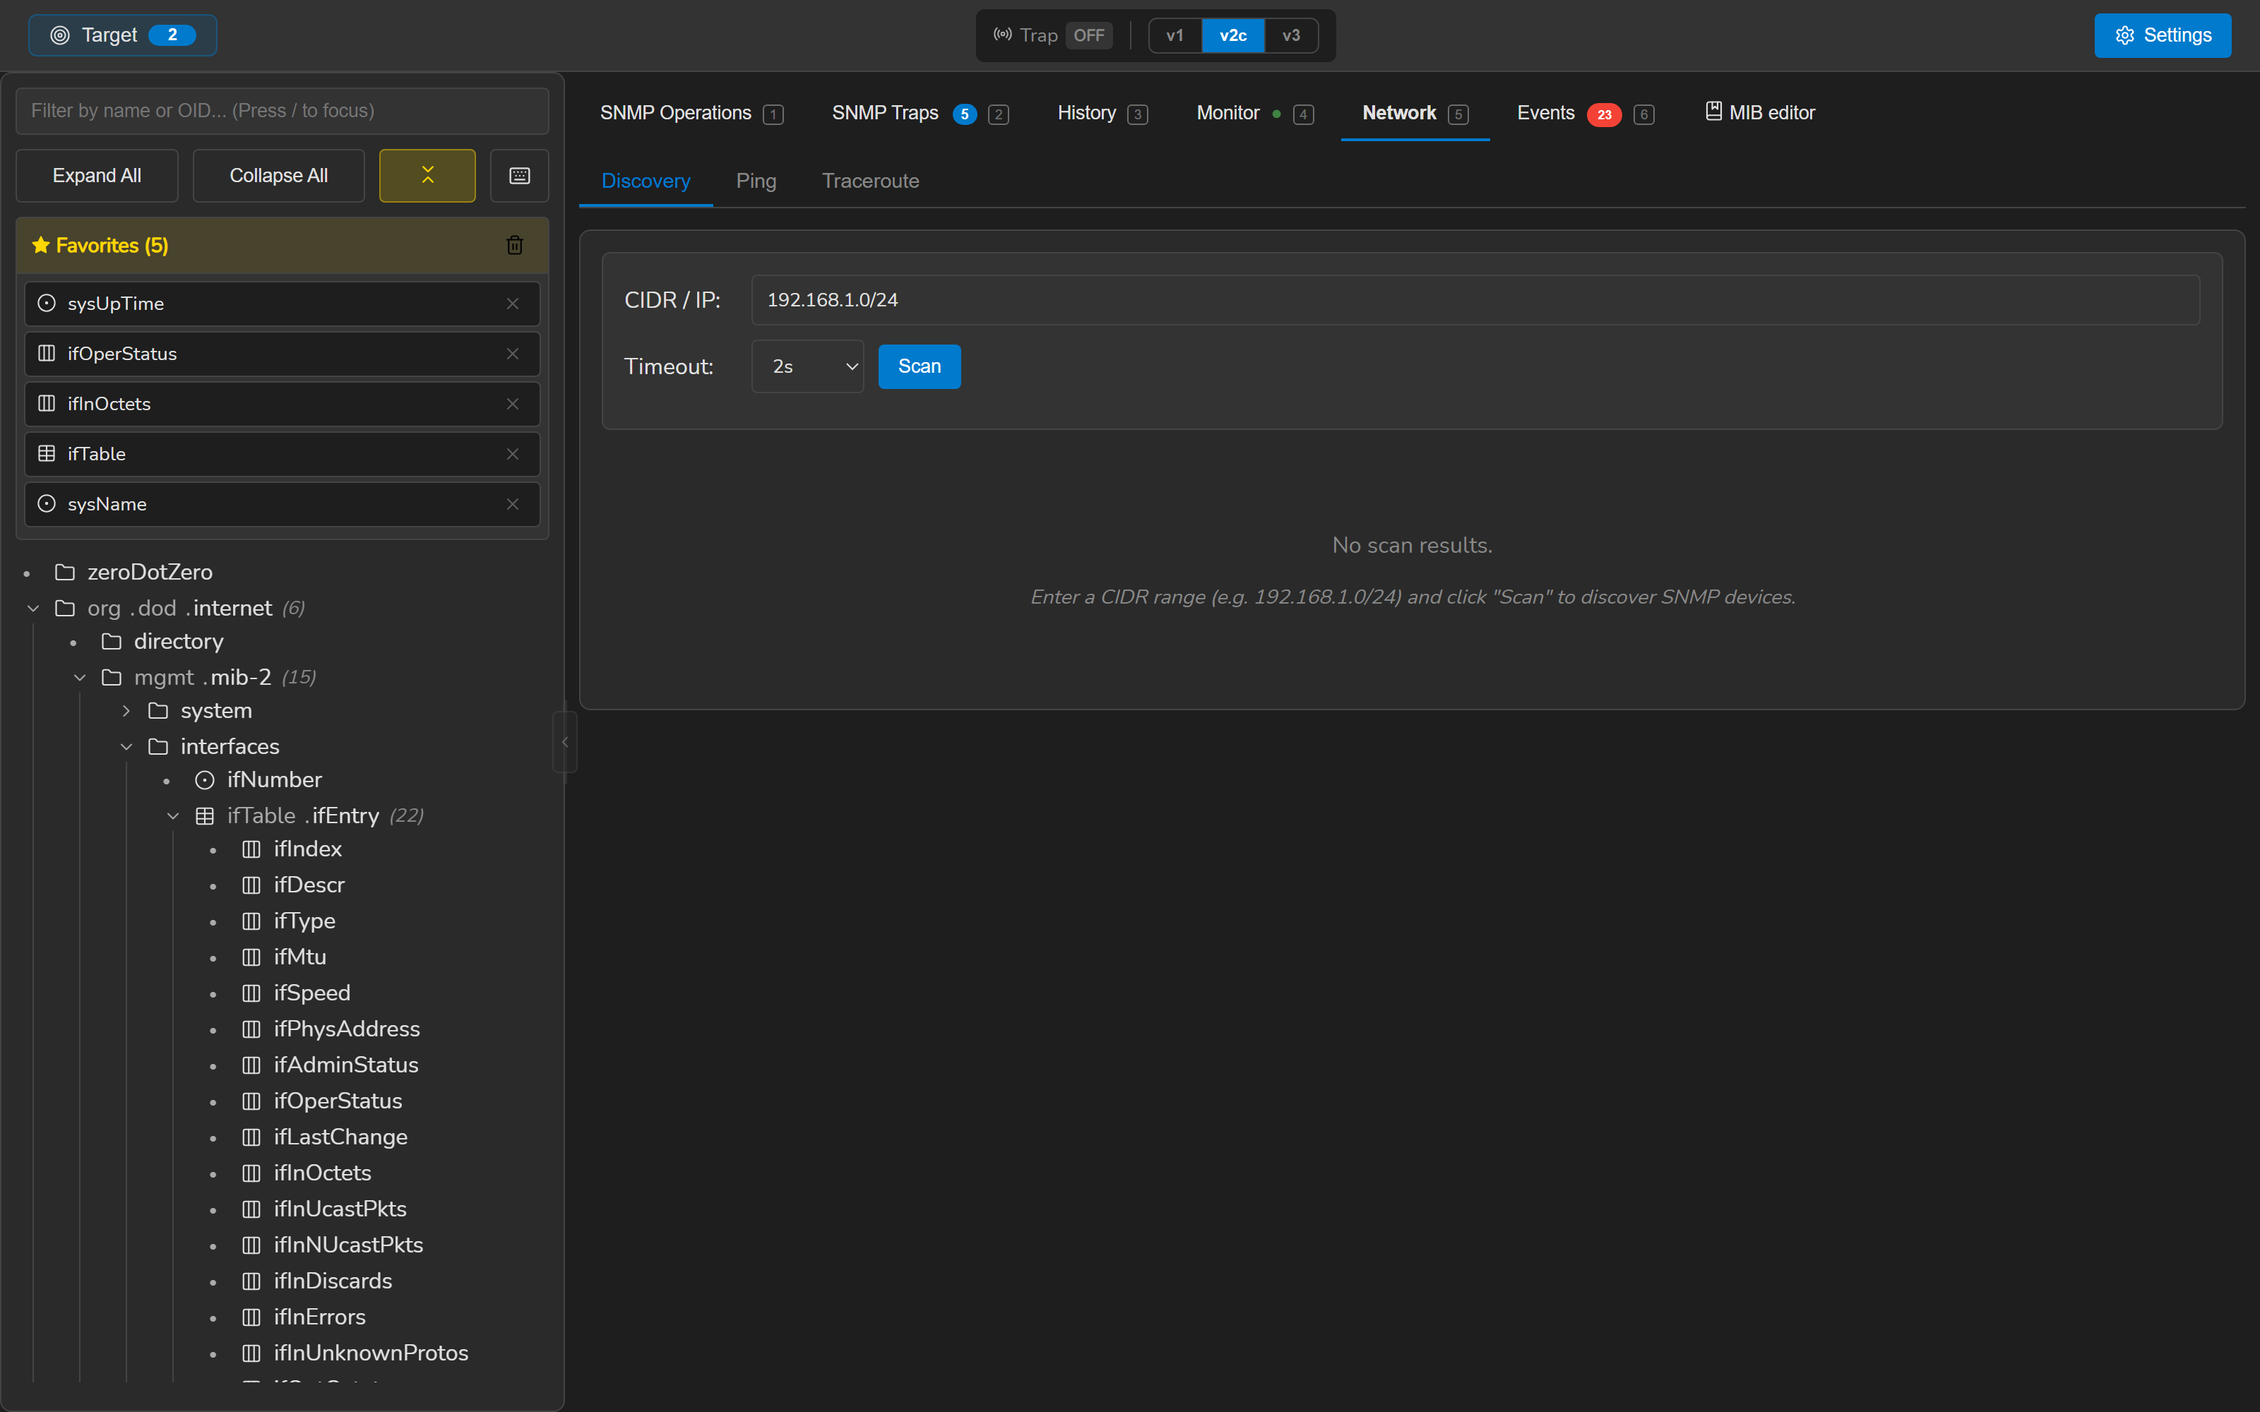
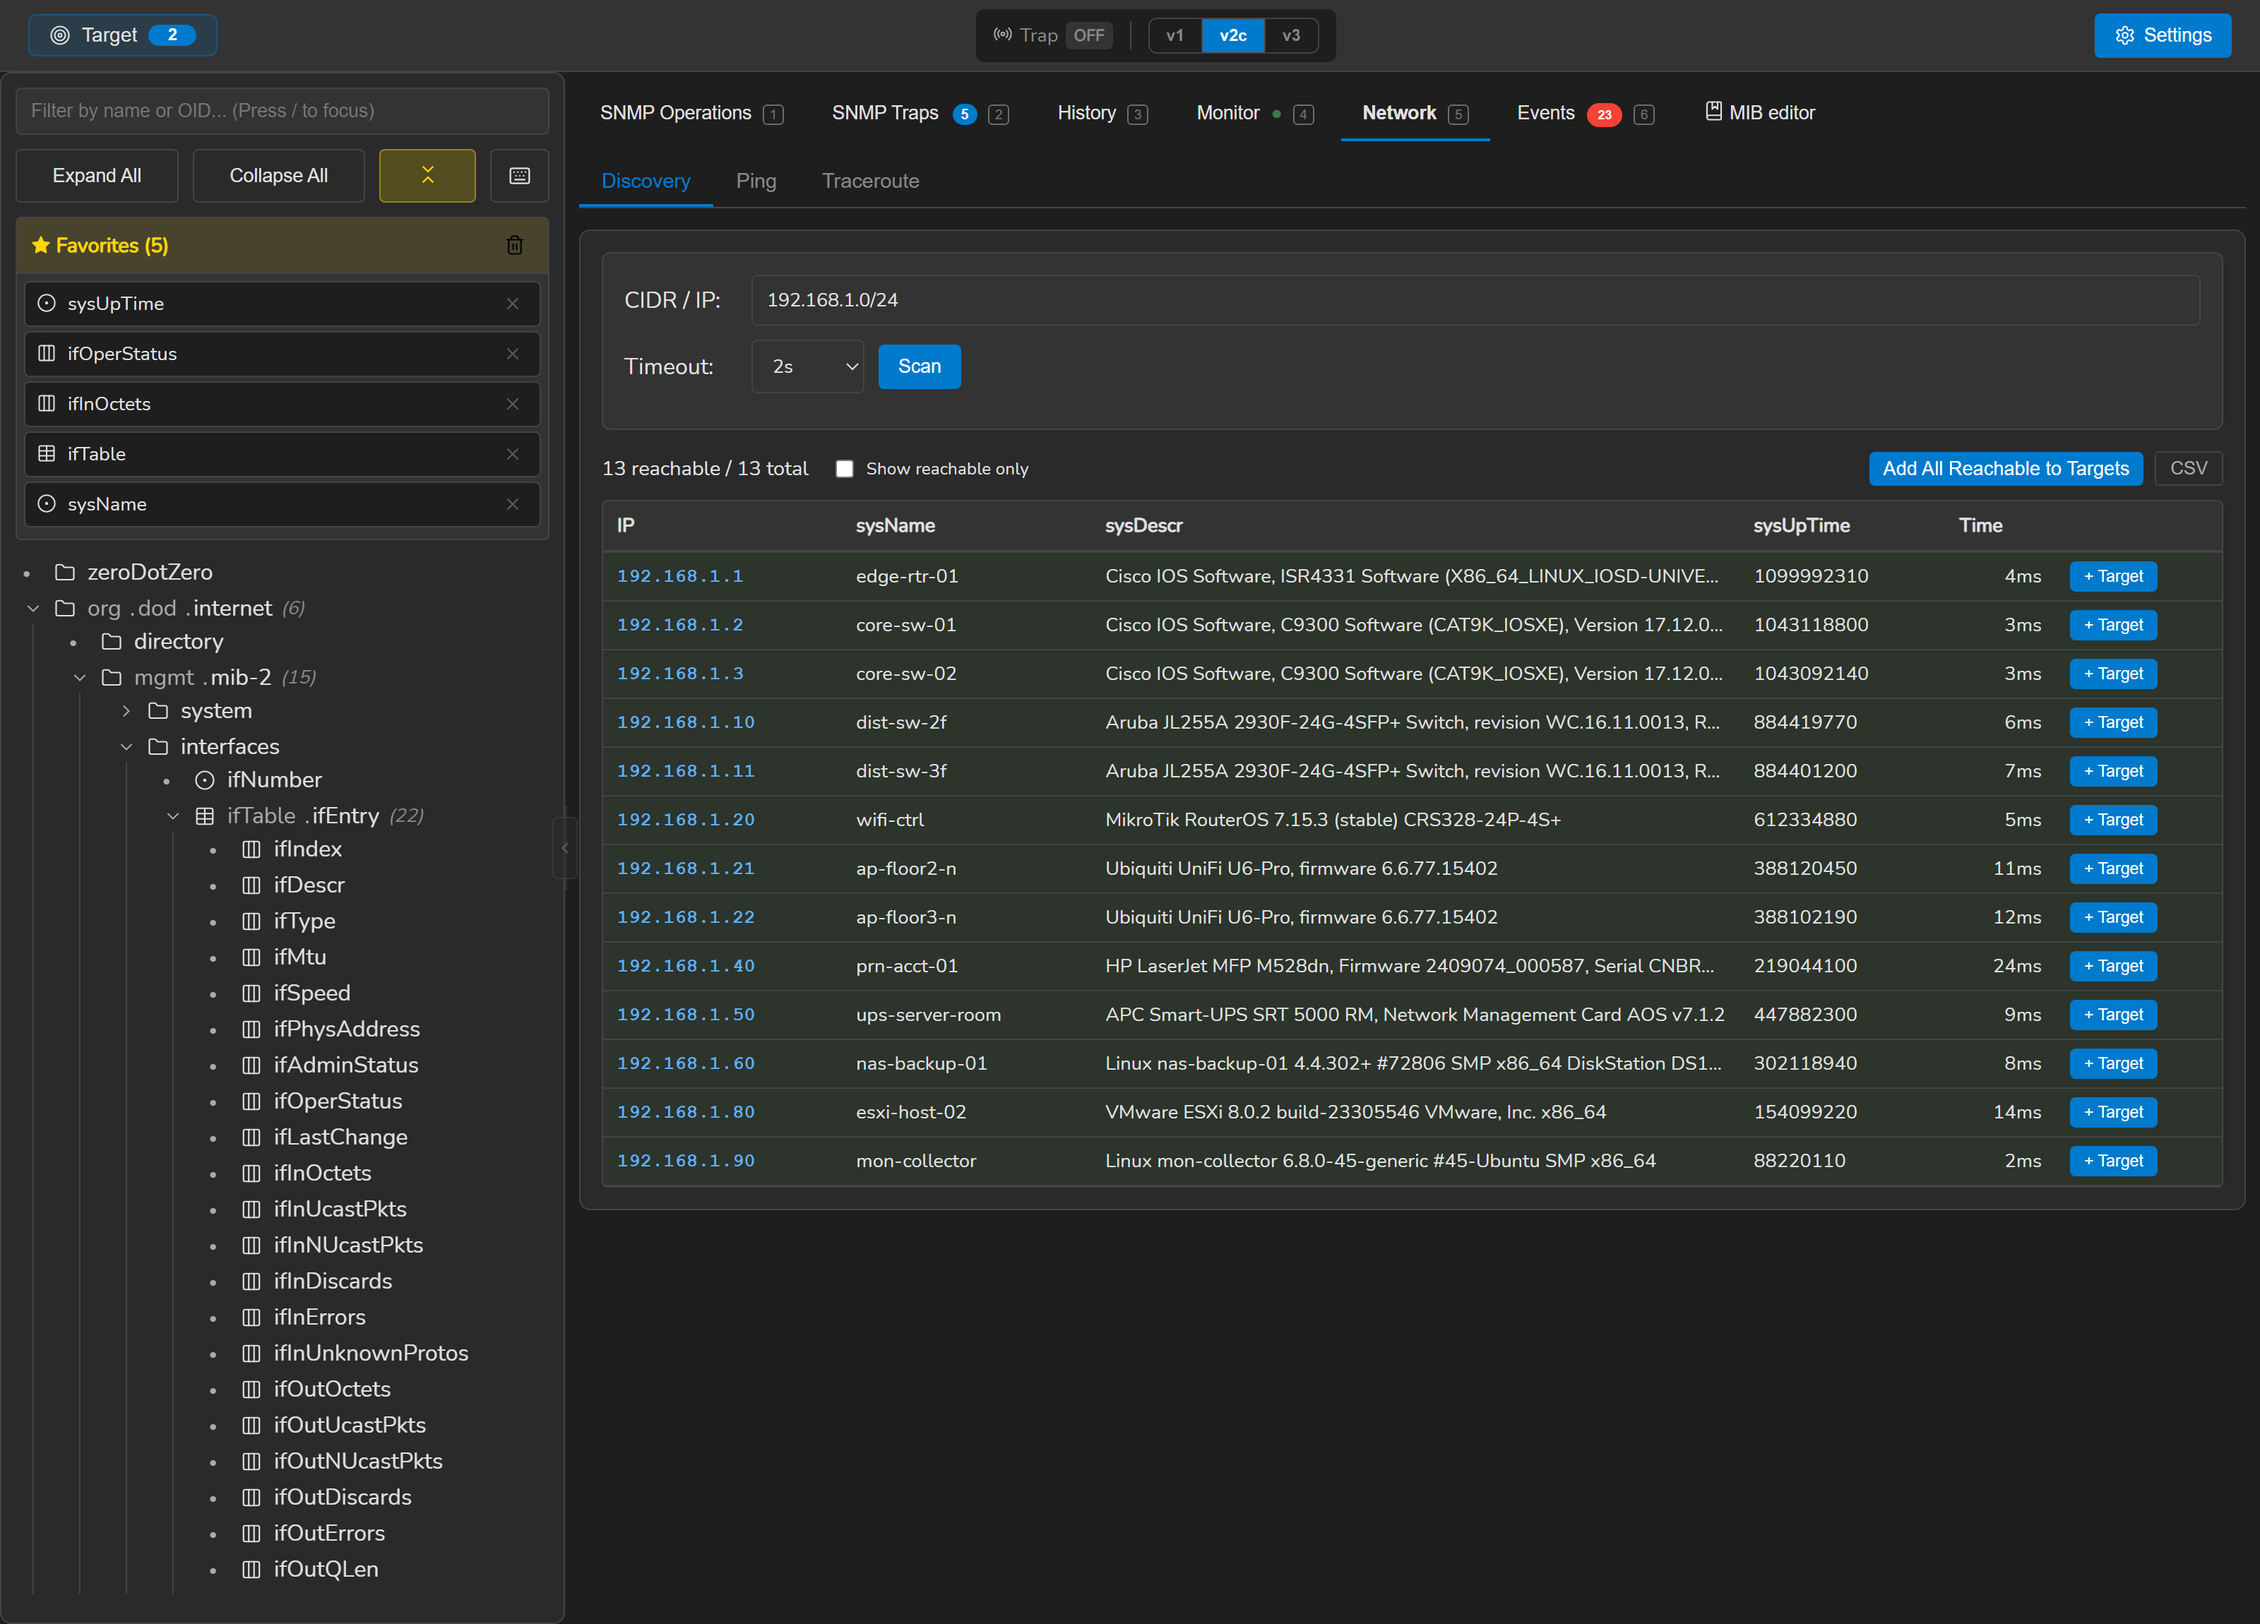
Make the discovery shot show a network that answered
It showed "No scan results — enter a CIDR range and click Scan": a picture of an
empty form. The results are the component's own state, like a walk's, so the
sweep has to be RUN.

The devices were also on 10.20.x.x while the form's default range is
192.168.1.0/24, so the image would have shown a scan of one subnet returning
addresses from another — and the reader who knows SNMP is exactly the reader who
notices that.

Thirteen devices now, on the subnet that was scanned, and the estate a small
site actually has: routers and switches from three vendors, the wireless
controller and two access points, and the three things people forget are on the
network until they answer an SNMP sweep — the printer, the UPS and the NAS. The
sysDescr strings are the real shapes those devices return, because a screenshot
of a discovery tool is largely a screenshot of sysDescr.

Also fixes the MIB path in the editor fixture: unescaped, JavaScript drops every
backslash it does not recognise as an escape and "C:\Users\ops\..." renders as
"C:Usersops...".

diff --git a/frontend/screenshots/bridge/dynamic.js b/frontend/screenshots/bridge/dynamic.js
@@ -165,7 +165,9 @@ dynamic.MibEditorReadDraft = () => ACME_POE_MIB;
 
 dynamic.MibEditorRead = () => ({
   name: 'ACME-POE-MIB',
-  path: 'C:\Users\ops\AppData\Roaming\SnmpLens\mibs\ACME-POE-MIB',
+  // Escaped: unescaped, JavaScript drops each backslash it does not recognise
+  // and the path renders as "C:Usersops...".
+  path: 'C:\\Users\\ops\\AppData\\Roaming\\SnmpLens\\mibs\\ACME-POE-MIB',
   content: ON_DISK,
   eol: 'lf',
   bundled: false,
@@ -173,3 +175,42 @@ dynamic.MibEditorRead = () => ({
[1 lines of base64/hex data omitted]
   diagnostics: [],
 });
+
+/**
+ * A CIDR sweep that found something.
+ *
+ * Two things were wrong with the specification's set. The scan is never RUN —
+ * the results are the component's own state, like a walk's — and the devices
+ * were on 10.20.x.x while the form's default range is 192.168.1.0/24, so the
+ * picture would have shown a scan of one subnet returning addresses from
+ * another. A reader who knows SNMP is exactly the reader who would notice.
+ *
+ * The estate is the kind a small site actually has: routers and switches from
+ * different vendors, the wireless, and the three things people forget are on
+ * the network until they answer an SNMP sweep — the printer, the UPS and the
+ * NAS. The sysDescr strings are the real shapes those devices return, because
+ * a screenshot of a discovery tool is partly a screenshot of sysDescr.
+ */
+const DISCOVERED = [
+  ['192.168.1.1', 'edge-rtr-01', 'Cisco IOS Software, ISR4331 Software (X86_64_LINUX_IOSD-UNIVERSALK9-M), Version 17.09.04a, RELEASE SOFTWARE (fc3)', 1099992310, 4],
+  ['192.168.1.2', 'core-sw-01', 'Cisco IOS Software, C9300 Software (CAT9K_IOSXE), Version 17.12.03, RELEASE SOFTWARE (fc2)', 1043118800, 3],
+  ['192.168.1.3', 'core-sw-02', 'Cisco IOS Software, C9300 Software (CAT9K_IOSXE), Version 17.12.03, RELEASE SOFTWARE (fc2)', 1043092140, 3],
+  ['192.168.1.10', 'dist-sw-2f', 'Aruba JL255A 2930F-24G-4SFP+ Switch, revision WC.16.11.0013, ROM WC.16.01.0006', 884419770, 6],
+  ['192.168.1.11', 'dist-sw-3f', 'Aruba JL255A 2930F-24G-4SFP+ Switch, revision WC.16.11.0013, ROM WC.16.01.0006', 884401200, 7],
+  ['192.168.1.20', 'wifi-ctrl', 'MikroTik RouterOS 7.15.3 (stable) CRS328-24P-4S+', 612334880, 5],
+  ['192.168.1.21', 'ap-floor2-n', 'Ubiquiti UniFi U6-Pro, firmware 6.6.77.15402', 388120450, 11],
+  ['192.168.1.22', 'ap-floor3-n', 'Ubiquiti UniFi U6-Pro, firmware 6.6.77.15402', 388102190, 12],
+  ['192.168.1.40', 'prn-acct-01', 'HP LaserJet MFP M528dn, Firmware 2409074_000587, Serial CNBRQ1234X', 219044100, 24],
+  ['192.168.1.50', 'ups-server-room', 'APC Smart-UPS SRT 5000 RM, Network Management Card AOS v7.1.2', 447882300, 9],
+  ['192.168.1.60', 'nas-backup-01', 'Linux nas-backup-01 4.4.302+ #72806 SMP x86_64 DiskStation DS1821+', 302118940, 8],
+  ['192.168.1.80', 'esxi-host-02', 'VMware ESXi 8.0.2 build-23305546 VMware, Inc. x86_64', 154099220, 14],
+  ['192.168.1.90', 'mon-collector', 'Linux mon-collector 6.8.0-45-generic #45-Ubuntu SMP x86_64', 88220110, 2],
+];
+
+dynamic.SnmpDiscover = () =>
+  DISCOVERED.map(([ip, sysName, sysDescr, sysUpTime, responseTime]) => ({
+    ip, sysName, sysDescr,
+    sysUpTime: String(sysUpTime),
+    responseTime,
+    reachable: true,
+  }));

diff --git a/frontend/screenshots/scenes.js b/frontend/screenshots/scenes.js
@@ -125,7 +125,11 @@ export function buildScenes(seeds) {
   scene(base, 'network-discovery', {
     tab: TABS.discovery,
     theme: 'dark',
-    describe: 'A CIDR sweep, then ping and traceroute.',
+    height: 1150,
+    // The sweep has to be RUN: its results are the component's own state, so
+    // without this the picture is of an empty form saying "no scan results".
+    act: ['Scan'],
+    describe: 'A CIDR sweep that found a real estate, with each device named.',
   }),
 
   scene(base, 'mib-editor', {
